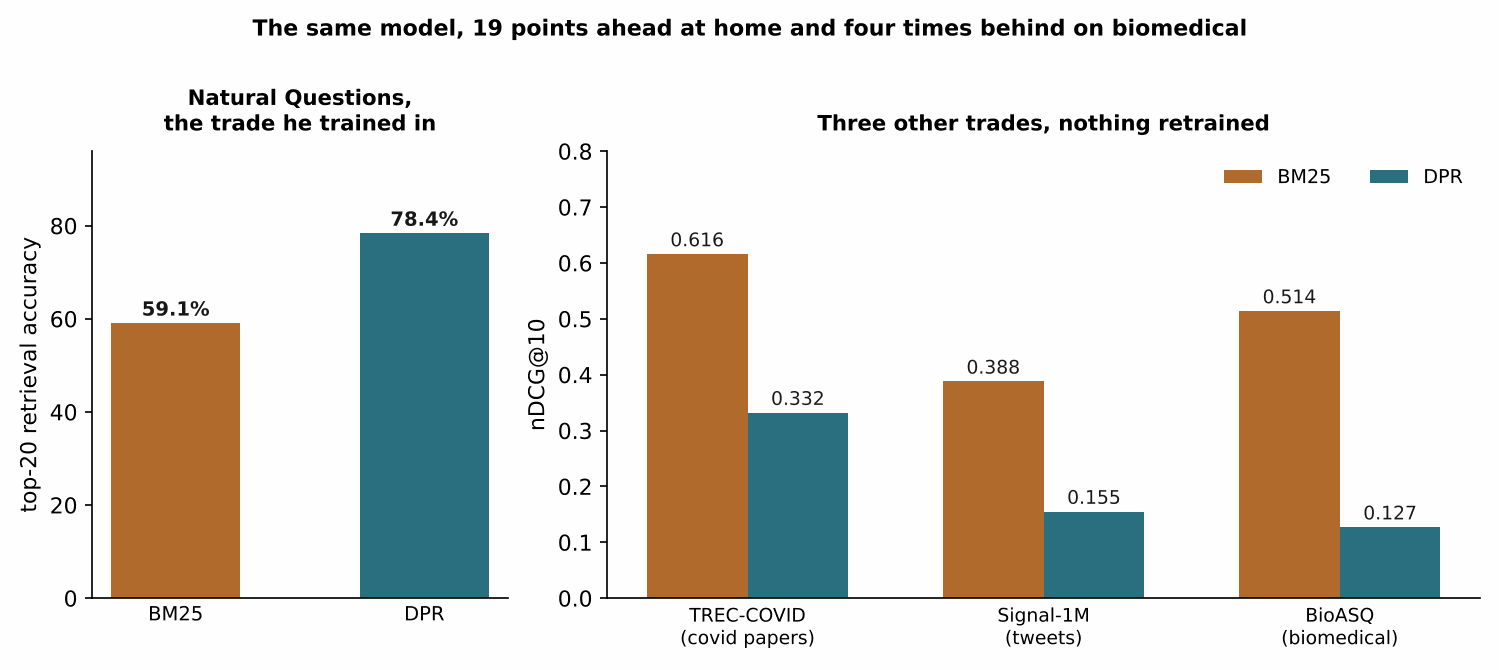
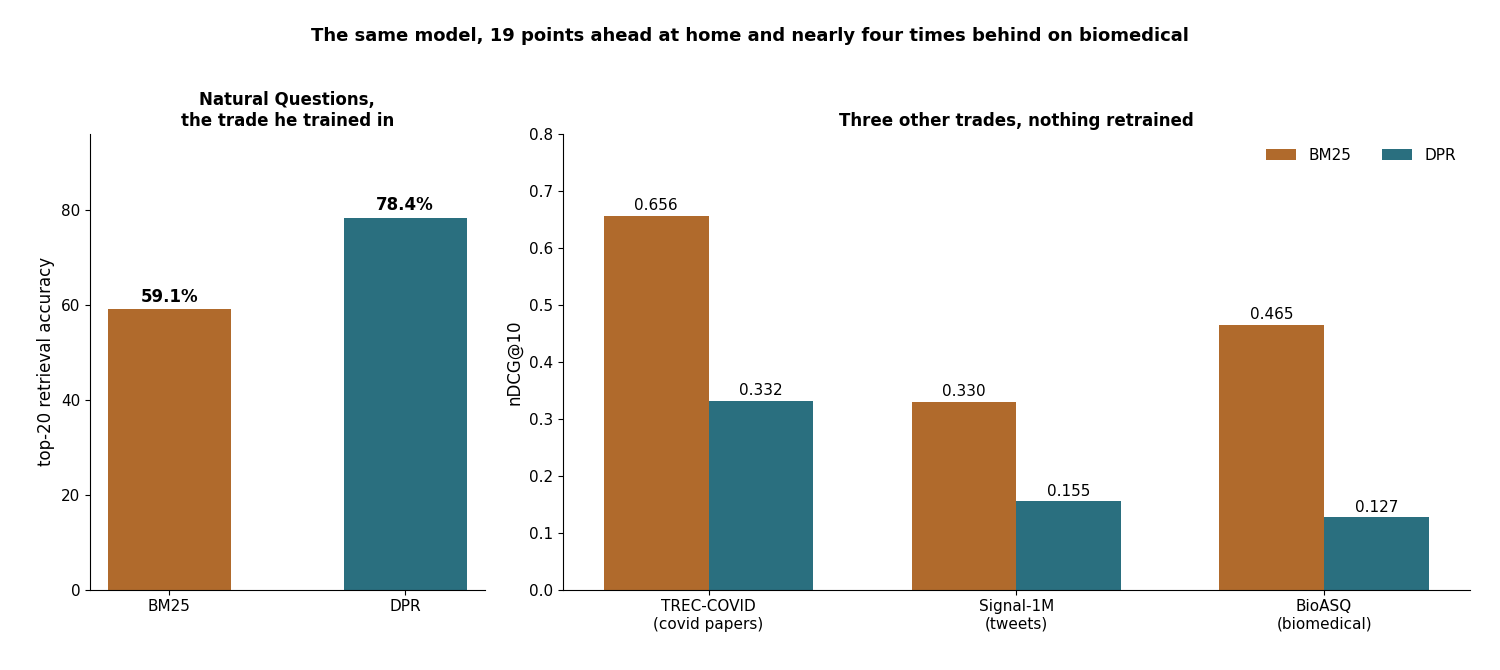
blog47: Commons cover, BEIR numbers from the paper, trim to 3,450 words
- Cover: the wall of drawers at an ironmonger's in Soignies (Jean-Pol
  Grandmont, CC BY 3.0), in place of the drawn placeholder.
- BEIR BM25 numbers now match the paper's Table 2: TREC-COVID 0.656,
  BioASQ 0.465, Signal-1M 0.330 (were 0.616, 0.514, 0.388). Figure 3
  redrawn; "four times behind" becomes "nearly four times".
- The reproduction caveat now cites Pyserini's flat vs multifield BM25.
- Removed the unsourced Naver Labs claim and the sourcing paragraph: the
  DPR (59.1/78.4) and ColBERT (154 GiB, 16 GiB) numbers check out against
  the papers.
- Trimmed repetition and signposting: 3,664 -> 3,450 prose words.

diff --git a/_posts/2026-10-18-retrieval-bm25-to-hybrid.md b/_posts/2026-10-18-retrieval-bm25-to-hybrid.md
@@ -7,7 +7,7 @@ description: "Word matching and embeddings fail on opposite queries, so producti
 tags: [retrieval, vector-search, rag, nlp, hnsw]
 ---
 
-*On the cover: a wall of parts drawers, and on the counter the perished door seal somebody brought in because he could not name it. Drawn by me rather than photographed, because Wikimedia Commons was blocked from the machine I write these on. Source: Author.*
+*On the cover: the wall of drawers at an ironmonger's in Soignies, Belgium, with one of each part fixed to the front of its drawer. Point at the thing in your bag and you have found the drawer, no name needed. Photo by [Jean-Pol GRANDMONT](https://commons.wikimedia.org/wiki/File:0_Quincaillerie_Michel_-_Soignies_(2).JPG), CC BY 3.0.*
 
 Near every big market, there is a street of shops selling parts for things you already own. Washing machine drums, mixer couplings, the little rubber ring inside a tap. One of those shops has forty thousand items in it and no shop floor at all. Just a counter, and a wall of drawers going up to the ceiling.
 
@@ -27,7 +27,7 @@ Behind the counter there is a catalogue, and it is sorted by word rather than by
 
 That is an **inverted index**, and it is the oldest idea in this post. For each word in the vocabulary, keep the list of documents containing it. The same [tokenizer](/blog/tokenizers-bpe/) question applies here too, because somebody had to decide that "door" and "doors" are the same entry and "GSK-441" is one word rather than two.
 
-Having the list is not the same as having an order, though. If four hundred entries say "seal", somebody has to decide which one goes on top. The ranking function that nearly everybody still uses to decide is **BM25**, from a 1994 paper called [Okapi at TREC-3](https://en.wikipedia.org/wiki/Okapi_BM25) by Robertson, Walker, Jones, Hancock-Beaulieu and Gatford, at City University London. BM is for best matching. The 25 is said to be the twenty-fifth formula they tried, though I have never seen a citation for that. Okapi was their retrieval system. It is also a forest animal that looks like somebody assembled a giraffe out of spare parts, which for this post is almost too convenient.
+Having the list is not the same as having an order, though. If four hundred entries say "seal", somebody has to decide which one goes on top. The ranking function that nearly everybody still uses to decide is **BM25**, from a 1994 paper called [Okapi at TREC-3](https://en.wikipedia.org/wiki/Okapi_BM25) by Stephen Robertson and colleagues at City University London. BM is for best matching. The 25 is said to be the twenty-fifth formula they tried, though I have never seen a citation for that. Okapi was their retrieval system. It is also a forest animal that looks like somebody assembled a giraffe out of spare parts, which for this post is almost too convenient.
 
 BM25 is three ideas sitting in one fraction, and all three are things the man behind the counter already does.
 
@@ -71,7 +71,7 @@ That is **dense retrieval**, and the map is an embedding. A neural network (the 
 
 The training trick is cheap and worth knowing. You take a batch of question-passage pairs that belong together. Then you treat every other passage in the same batch as a wrong answer for your question. A batch of $B$ pairs hands you $B(B-1)$ negative examples for free, which is why these models are trained with the biggest batch the hardware allows. The loss is the same softmax over similarities that the [cross entropy post](/blog/cross-entropy-loss/) spent two thousand words on.
 
-One thing this buys you and one thing it costs. It buys you an index you can build years in advance, because the passage side never sees the question. It costs you the ability to compare against all forty thousand drawers, because that many dot products on every keystroke gets expensive fast. That second problem is the whole subject of the [HNSW post](/blog/hnsw-graph-based-vector-search/). You build a small-world graph over the vectors and walk it greedily. So you touch a few hundred of them instead of all forty thousand. That is an approximate nearest-neighbour search, approximate because the greedy walk can miss the true closest vector, and now and then it does.
+It buys you an index you can build years in advance, because the passage side never sees the question. It costs you the ability to compare against all forty thousand drawers, because that many dot products on every keystroke gets expensive fast. That second problem is the whole subject of the [HNSW post](/blog/hnsw-graph-based-vector-search/). You build a small-world graph over the vectors and walk it greedily. So you touch a few hundred of them instead of all forty thousand. That is an approximate nearest-neighbour search, approximate because the greedy walk can miss the true closest vector, and now and then it does.
 
 ## Send the old hand to a different trade
 
@@ -79,9 +79,9 @@ DPR is very good at the thing it was trained on. On [Natural Questions](https://
 
 Then [BEIR](https://github.com/beir-cellar/beir) (Thakur et al., 2021) took eighteen retrieval datasets from different domains, and ran the same trained models against all of them without retraining. That is the **zero-shot** setting: no new examples, no fine-tuning, just the model walking into a trade it has never seen. Everything is scored with nDCG@10, a number between 0 and 1 for how much of the right material turned up in the top ten, counting the higher positions for more. The results are in Figure 3 and they are not subtle.
 
-![Two bar charts: DPR ahead of BM25 on Natural Questions, and well behind it on TREC-COVID, Signal-1M and BioASQ](/images/blog47/beir-domain-shift.png) *Figure 3: the same model in two situations. On biomedical questions it scores 0.127 against BM25's 0.514, which is the sort of number you get from a system that has formed an opinion about words it has never seen. Source: Author*
+![Two bar charts: DPR ahead of BM25 on Natural Questions, and well behind it on TREC-COVID, Signal-1M and BioASQ](/images/blog47/beir-domain-shift.png) *Figure 3: the same model in two situations. On biomedical questions it scores 0.127 against BM25's 0.465, which is the sort of number you get from a system that has formed an opinion about words it has never seen. Source: Author*
 
-On [BioASQ](https://huggingface.co/datasets/BeIR/bioasq), a biomedical question set, BM25 scores 0.514 and DPR scores 0.127. On [TREC-COVID](https://huggingface.co/datasets/BeIR/trec-covid) it is 0.616 against 0.332. On Signal-1M, which is tweets, it is 0.388 against 0.155. Nineteen points ahead on the questions it trained for, four times behind on biomedical, with no change to the model at all. Those are two different metrics, so the halves are not strictly comparable. The same model is excellent at home and badly out of its depth away from it.
+On [BioASQ](https://huggingface.co/datasets/BeIR/bioasq), a biomedical question set, BM25 scores 0.465 and DPR scores 0.127. On [TREC-COVID](https://huggingface.co/datasets/BeIR/trec-covid) it is 0.656 against 0.332. On Signal-1M, which is tweets, it is 0.330 against 0.155. Nineteen points ahead on the questions it trained for, nearly four times behind on biomedical, with no change to the model at all. Those are two different metrics, so the halves are not strictly comparable.
 
 The reason is the one you would guess from the shop. The old hand learnt his map from the customers who actually came in. Put him behind a counter in a trade he has never served, where the words are drug names and gene symbols he has never once heard at this counter. He will still walk confidently to a drawer. He just walks to the wrong one. The catalogue has no feel for anything, which is exactly why it does not care that the trade changed.
 
@@ -108,13 +108,13 @@ Does it work? Elastic ran it on BEIR by fusing BM25 with their learned sparse en
 
 Everything so far has been the shortlist. The man still has to walk to the counter with four candidates and hold each one against the thing in your bag.
 
-That comparison is a **cross-encoder**. Instead of encoding the query and the entry separately, you glue them into one string and push them through a single model. So every word of the query can attend to every word of the entry. It is better, for the reason in that last sentence: every word looking at every other word beats one dot product between two summaries. And it is unusable for search, because nothing can be precomputed. The entry is only ever read next to this one query, so a corpus of forty thousand needs forty thousand forward passes.
+That comparison is a **cross-encoder**. Instead of encoding the query and the entry separately, you glue them into one string and push them through a single model. So every word of the query can attend to every word of the entry, which beats one dot product between two summaries. And it is unusable for search, because nothing can be precomputed. The entry is only ever read next to this one query, so a corpus of forty thousand needs forty thousand forward passes.
 
 ![Three architecture panels: a bi-encoder with separate towers, a cross-encoder reading both at once, and ColBERT's per-word vectors with best-match arrows](/images/blog47/bi-cross-late.webp) *Figure 5: the same three boxes rearranged. The grey panels are what you can compute before the query arrives, and they are the entire reason the left-hand design is the one that touches your whole corpus. Source: Author*
 
-So you run it on fifty candidates rather than forty thousand, which is the retrieve-then-rerank pattern in Figure 1. On BEIR, BM25 followed by a cross-encoder reranker was the best configuration in the original paper, about 11% above BM25 on the average. It is also easily the slowest thing in the pipeline. Blog benchmarks for 100 candidates land around 45 ms for a small six-layer reranker and 130 ms for a large one. That is fine for a search box, and a problem for an agent that retrieves a dozen times before it answers.
+So you run it on fifty candidates rather than forty thousand, which is the retrieve-then-rerank pattern in Figure 1. On BEIR, BM25 followed by a cross-encoder reranker was the best configuration in the original paper, about 11% above BM25 on the average. Blog benchmarks for 100 candidates land around 45 ms for a small six-layer reranker and 130 ms for a large one. That is fine for a search box, and a problem for an agent that retrieves a dozen times before it answers.
 
-There is a middle design. [ColBERT](https://arxiv.org/abs/2112.01488) keeps one vector per *word* of every entry instead of one per entry. At query time each query word takes its single best match, and the scores are added up. Most of the work is precomputed, and the query still sees the entry word by word. The cost arrives as storage: vanilla ColBERT needs about 154 GiB to index [MS MARCO](https://huggingface.co/datasets/microsoft/ms_marco), a corpus of roughly 8.8 million web passages. The text itself is a few gigabytes. So the index runs tens of times the size of the thing it indexes, and takes most of somebody's laptop. ColBERTv2's compression takes that to 16 GiB at one bit per dimension. The other middle design is [SPLADE](https://arxiv.org/abs/2107.05720), which learns to write extra words into the catalogue entry. So the inverted index handles synonyms itself, and you keep the exact-match behaviour.
+There is a middle design. [ColBERT](https://arxiv.org/abs/2112.01488) keeps one vector per *word* of every entry instead of one per entry. At query time each query word takes its single best match, and the scores are added up. Most of the work is precomputed, and the query still sees the entry word by word. The cost arrives as storage: vanilla ColBERT needs about 154 GiB to index [MS MARCO](https://huggingface.co/datasets/microsoft/ms_marco), a corpus of roughly 8.8 million web passages. That is tens of times the size of the text it indexes. ColBERTv2's compression takes that to 16 GiB at one bit per dimension. The other middle design is [SPLADE](https://arxiv.org/abs/2107.05720), which learns to write extra words into the catalogue entry. So the inverted index handles synonyms itself, and you keep the exact-match behaviour.
 
 | Method | Matches on | Cost per query | Where it wins |
 |---|---|---|---|
@@ -132,9 +132,9 @@ There is a middle design. [ColBERT](https://arxiv.org/abs/2112.01488) keeps one 
 
 ## Where things are going
 
-Embedding models have got much better at the zero-shot problem since DPR, mostly by training on far more and far more varied pairs. The instruction-tuned ones now take a sentence describing the task along with the text. The gap in Figure 3 is narrower in 2026 than it was in 2021, though nobody has closed it on exact-match queries.
+Embedding models have got much better at the zero-shot problem since DPR, mostly by training on far more and far more varied pairs. The gap in Figure 3 is narrower in 2026 than it was in 2021, though nobody has closed it on exact-match queries.
 
-Learned sparse retrieval is the quieter trend and I think the more interesting one. If the index can expand "ring" into "gasket" at write time, you get the synonym behaviour inside the data structure that was already fast and auditable. A 2026 Naver Labs paper notes that SPLADE itself has struggled to stay competitive on large multilingual benchmarks, which is a real dent in that story.
+Learned sparse retrieval is the quieter trend and I think the more interesting one. If the index can expand "ring" into "gasket" at write time, you get the synonym behaviour inside the data structure that was already fast and auditable.
 
 And rerankers are quietly becoming the whole game. Hand a language model the query and ten candidates and ask it to order them, and you get the cross-encoder's every-word-against-every-word comparison from a model somebody else already paid to train. It is far slower than the 130 ms reranker. But if the model was going to read those passages anyway, you were buying that pass regardless.
 
@@ -142,15 +142,13 @@ And rerankers are quietly becoming the whole game. Hand a language model the que
 
 Every shop has one, and here is what is in mine.
 
-The benchmark numbers here are softer than they look. Reproductions of BEIR disagree with the original paper, with BM25 on TREC-COVID at 0.616 in one place and 0.656 in another. And different papers average over different subsets of the eighteen datasets. So a method "2.5% above BM25 on average" may be above or below it depending on which of the eighteen you counted. I would not read a two-point difference between two retrievers as meaning anything.
+The benchmark numbers here are softer than they look. Reproductions of BEIR disagree with each other. [Pyserini](https://castorini.github.io/pyserini/2cr/beir.html) gets 0.595 for BM25 on TREC-COVID with title and body indexed as one field. Index them as two and it gets the paper's 0.656. On BioASQ the order flips, 0.522 against 0.465. And different papers average over different subsets of the eighteen datasets. So a method "2.5% above BM25 on average" may be above or below it depending on which of the eighteen you counted. I would not read a two-point difference between two retrievers as meaning anything.
 
-Hybrid is also not free and not automatically better. One published comparison had an untuned hybrid scoring below its own dense-only baseline, 0.390 against 0.410 on mean reciprocal rank, which grades a list by how far down the first right answer sits. It only got past the baseline once a weighted score combination was tuned, which took it to 0.486. Note that this is weighted fusion, not RRF, which has no weight to tune. And that is rather the point. The moment you want to favour one retriever, you are back in the business of normalising scores. It is also a vendor-adjacent benchmark over 100 questions, so treat it as a direction rather than a measurement. The structural point holds though. You run two queries instead of one, which Elastic notes costs latency because they go in sequence. And you keep two indexes in sync over the same documents.
+Hybrid is also not free and not automatically better. One published comparison had an untuned hybrid scoring below its own dense-only baseline, 0.390 against 0.410 on mean reciprocal rank, which grades a list by how far down the first right answer sits. It only beat the baseline, at 0.486, once a weighted combination of the two scores was tuned. That is weighted fusion rather than RRF, which has no weight to tune. And that is rather the point, because the moment you want to favour one retriever, you are back to normalising scores. It is also a vendor-adjacent benchmark over 100 questions, so treat it as a direction rather than a measurement. Either way you run two queries instead of one. Elastic notes they go in sequence, which costs latency. And you keep two indexes in sync over the same documents.
 
-RRF throws information away on purpose, and nobody talks about what that costs. A document BM25 scored 40 and one it scored 4.1, are identical to the referee if they both came third. When one retriever is confident and the other is guessing, RRF cannot tell, because confidence is exactly the thing it deleted. And $k = 60$ was tuned in 2009 on TREC runs, against systems that were all lexical.
+RRF throws information away on purpose, and nobody talks about what that costs. A document BM25 scored 40 and one it scored 4.1, are identical to the referee if they both came third. When one retriever is confident and the other is guessing, RRF cannot tell, because confidence is exactly the thing it deleted.
 
 The last one bothers me most. Almost nobody retrieves for a human reader any more. nDCG@10 is built on a model of a person reading down a list and losing interest, so it discounts position 9 heavily. But the consumer is now a language model that reads all ten, and a wrong-but-plausible passage at position 7 can do more damage to the final answer than an empty result would. We are tuning a ranking metric for a reader who no longer exists.
-
-On sourcing, the usual caveat on this blog, and a real one here. arXiv and Wikimedia were both blocked from the machine I wrote this on. So every number above comes from published tables as they appear in search results and write-ups, rather than from the PDFs. The ones I would most like checked are the BioASQ pair, the 154 GiB ColBERT index, and BM25's 59.1 on Natural Questions. The Naver Labs claim about SPLADE is the one assertion here I could not find a link for at all. I got that last one by subtracting DPR's reported 19.3-point gain from 78.4.
 
 ## Conclusion
 
